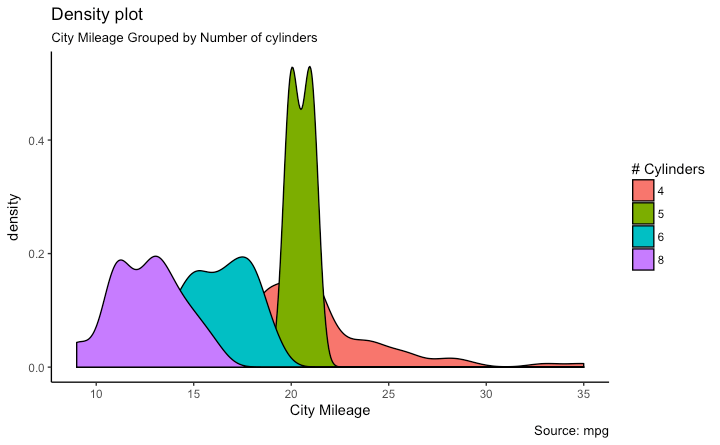
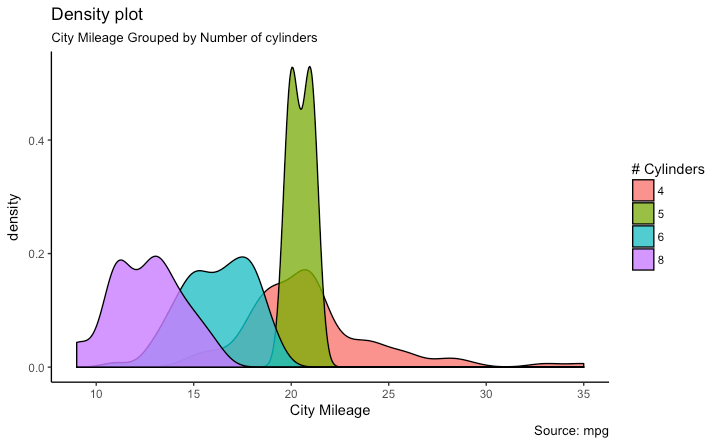
masterlist7

Changed region(s): [[0.0917, 0.1753, 0.6722, 0.8472], [0.8556, 0.409, 0.9167, 0.6135], [0.2444, 0.7888, 0.275, 0.818]]

diff --git a/temp.html b/temp.html
@@ -570,7 +570,7 @@ g +<span class="st"> </span><span class="kw">geom_bar</span>(<span class="kw">ae
 
 <span class="co"># Plot</span>
 g &lt;-<span class="st"> </span><span class="kw">ggplot</span>(mpg, <span class="kw">aes</span>(cty))
-g +<span class="st"> </span><span class="kw">geom_density</span>(<span class="kw">aes</span>(<span class="dt">fill=</span><span class="kw">factor</span>(cyl))) +<span class="st"> </span>
+g +<span class="st"> </span><span class="kw">geom_density</span>(<span class="kw">aes</span>(<span class="dt">fill=</span><span class="kw">factor</span>(cyl)), <span class="dt">alpha=</span><span class="fl">0.8</span>) +<span class="st"> </span>
 <span class="st">    </span><span class="kw">labs</span>(<span class="dt">title=</span><span class="st">&quot;Density plot&quot;</span>, 
          <span class="dt">subtitle=</span><span class="st">&quot;City Mileage Grouped by Number of cylinders&quot;</span>,
          <span class="dt">caption=</span><span class="st">&quot;Source: mpg&quot;</span>,
